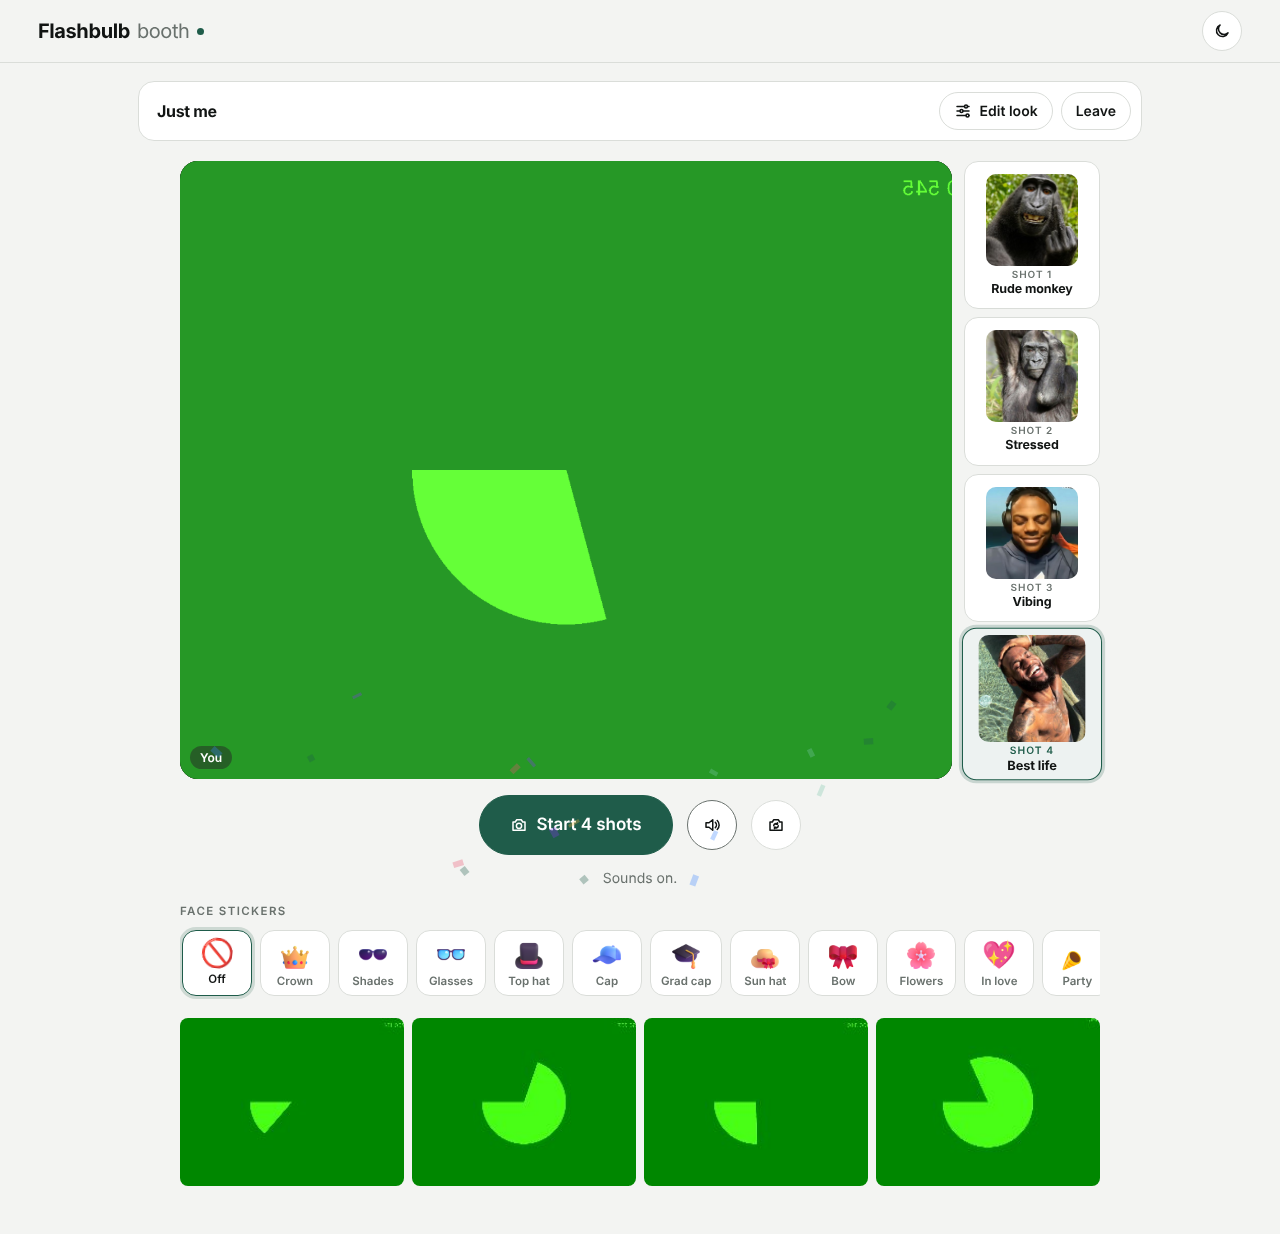
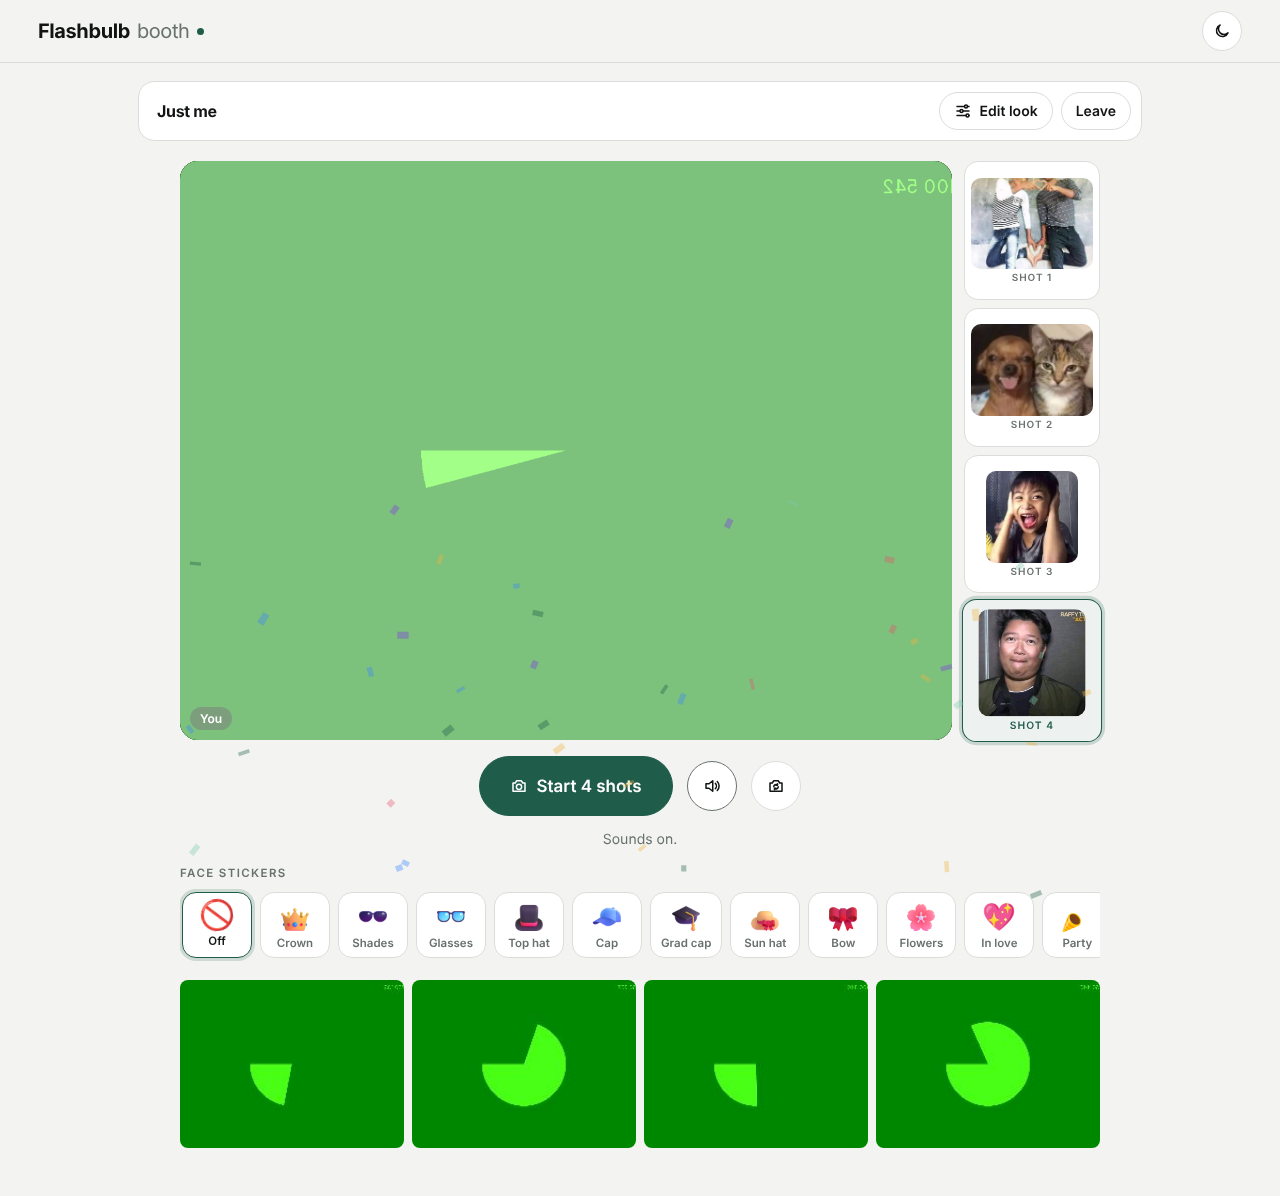
Show only the pose picture: no names or shot labels
The print shows just the pose beside each photo (no SHOT 1-4 label or
pose name), and the pose cards beside the camera drop the name. The
name is still in the card's tooltip and in the Poses tab.

diff --git a/tests/e2e.js b/tests/e2e.js
@@ -135,7 +135,9 @@ async function makeFaceVideo(browser) {
   check('Phone Together: each camera gets half the screen', bt >= 160, `${bt}px per camera`);
   await B.evaluate(() => window.scrollTo(0, 0)); await B.waitForTimeout(200); await B.screenshot({ path: OUT + '/phone-together.png' });
   check('Partner sees Partner on the left, You on the right', (await B.locator('#poseRail .rail-card').first().locator('.who2 i').allTextContents()).join('|') === 'Partner|You');
-  check('Both see the same duo poses', (await A.locator('#poseRail .rail-card b').allTextContents()).join() === (await B.locator('#poseRail .rail-card b').allTextContents()).join());
+  const railNames = (p) => p.evaluate(() => [...document.querySelectorAll('#poseRail .rail-card')].map((c) => c.title).join());
+  check('Both see the same duo poses', (await railNames(A)) === (await railNames(B)) && (await railNames(A)).length > 0);
+  check('Pose cards beside the camera show no name', (await A.locator('#poseRail .rail-card b').count()) === 0);
   await A.locator('#poseRail').screenshot({ path: OUT + '/duo-rail-host.png' });
   await A.click('#tabBtn-poses'); await A.locator('#poseFor .chip', { hasText: 'Solo' }).click(); await A.waitForTimeout(800);
   check('Switching to Solo poses syncs to the partner', (await B.locator('#poseRail .rail-card.duo').count()) === 0 && (await B.locator('#poseRail .rail-card').count()) === 4);
@@ -145,7 +147,7 @@ async function makeFaceVideo(browser) {
   // synced 4-shot session started by the partner
   await B.click('#shootBtn');
   await A.waitForTimeout(1000);
-  const posA = await A.locator('#poseRail [aria-pressed=true] b').textContent().catch(() => ''), posB = await B.locator('#poseRail [aria-pressed=true] b').textContent().catch(() => '-');
+  const posA = await A.locator('#poseRail [aria-pressed=true]').getAttribute('title').catch(() => ''), posB = await B.locator('#poseRail [aria-pressed=true]').getAttribute('title').catch(() => '-');
   check('Both see the same pose beside the camera', posA === posB && posA !== '', posA);
   check('No pose pop-up covers the camera', (await A.locator('.pose-pop').count()) === 0);
   await A.waitForTimeout(2300);
@@ -278,7 +280,7 @@ async function makeFaceVideo(browser) {
   check('Picking a pose in the list shows it beside the camera', (await J.locator('#poseRail .rail-card').nth(2).getAttribute('aria-pressed')) === 'true');
   await J.click('#tabBtn-look'); await closeLook(J);
   await J.locator('#poseRail .rail-card').nth(3).click();
-  check('Tapping a pose beside the camera picks it', (await J.locator('#poseRail .rail-card').nth(3).getAttribute('aria-pressed')) === 'true' && (await J.locator('#poseList .pose-item.sel b').textContent()) === (await J.locator('#poseRail .rail-card').nth(3).locator('b').textContent()));
+  check('Tapping a pose beside the camera picks it', (await J.locator('#poseRail .rail-card').nth(3).getAttribute('aria-pressed')) === 'true' && (await J.locator('#poseList .pose-item.sel b').textContent()) === (await J.locator('#poseRail .rail-card').nth(3).getAttribute('title')));
   await J.screenshot({ path: OUT + '/pose-rail.png' });
   await J.click('#shootBtn');
   await J.waitForTimeout(1000);
@@ -292,6 +294,12 @@ async function makeFaceVideo(browser) {
   check('The print drops out of the booth slot', (await view(J)) === 'result' && await J.evaluate(() => document.getElementById('tray').contains(document.getElementById('printBox')) && document.getElementById('printBox').classList.contains('dispense')));
   await J.waitForTimeout(1200); await J.screenshot({ path: OUT + '/result-dispense.png' });
   await J.waitForTimeout(2000);
+  const printTexts = await J.evaluate(() => { const t = [], orig = CanvasRenderingContext2D.prototype.fillText;
+    CanvasRenderingContext2D.prototype.fillText = function (x, ...a) { if (this.canvas.id === 'strip') t.push(String(x)); return orig.call(this, x, ...a); };
+    const el = document.getElementById('showDate'); el.checked = !el.checked; el.dispatchEvent(new Event('change')); el.checked = !el.checked; el.dispatchEvent(new Event('change'));
+    CanvasRenderingContext2D.prototype.fillText = orig;
+    const names = [...document.querySelectorAll('#poseRail .rail-card')].map((c) => c.title); return { t, names }; });
+  check('The print has no SHOT labels or pose names', printTexts.t.length > 0 && !printTexts.t.some((x) => /SHOT/.test(x.replace(/\u200a/g, '')) || printTexts.names.includes(x)), printTexts.t.slice(0, 6).join(' | '));
   check('Just me takes 4 photos', (await J.evaluate(() => document.querySelectorAll('#thumbs img').length)) === 4);
   const jdl = J.waitForEvent('download', { timeout: 5000 }).catch(() => null);
   await J.click('#saveBtn'); const jd = await jdl;

diff --git a/js/booth.js b/js/booth.js
@@ -110,13 +110,13 @@
   }
   function drawPose(r, i, frame, nameSize) {
     const key = packKey(), idx = picks[key][i]; if (idx == null) return;
-    const duo = poseFor === "duo", item = packList(key)[idx], name = poseMode === "meme" ? item.name : item[duo ? 2 : 1];
+    const duo = poseFor === "duo", item = packList(key)[idx];
     ctx.save();
     if (frame.theme) { ctx.fillStyle = frame.bg; ctx.globalAlpha = .9; ctx.beginPath(); ctx.roundRect ? ctx.roundRect(r.x, r.y, r.w, r.h, 16) : ctx.rect(r.x, r.y, r.w, r.h); ctx.fill(); }
     ctx.fillStyle = frame.ink; ctx.globalAlpha = .05;
     ctx.beginPath(); ctx.roundRect ? ctx.roundRect(r.x, r.y, r.w, r.h, 16) : ctx.rect(r.x, r.y, r.w, r.h); ctx.fill();
     ctx.globalAlpha = 1;
-    const pad = 14, textH = nameSize * 2.6, aw = r.w - pad * 2, ah = r.h - textH - pad;
+    const pad = 14, aw = r.w - pad * 2, ah = r.h - pad * 2; // just the pose: no shot number or name on the print
     const cx = r.x + r.w / 2, cy = r.y + pad + ah / 2;
     if (poseMode === "meme") {
       const im = poseArt(idx, frame, duo);
@@ -129,13 +129,6 @@
       ctx.font = `${Math.round(size)}px "Apple Color Emoji", "Segoe UI Emoji", "Noto Color Emoji", sans-serif`;
       ctx.textAlign = "center"; ctx.textBaseline = "middle"; ctx.fillText(text, cx, cy);
     }
-    ctx.fillStyle = frame.ink; ctx.textAlign = "center"; ctx.textBaseline = "alphabetic";
-    ctx.globalAlpha = .55; ctx.font = `600 ${Math.round(nameSize * .5)}px "Urbanist", sans-serif`;
-    ctx.fillText(`SHOT ${i + 1}`.split("").join(String.fromCharCode(8202)), r.x + r.w / 2, r.y + r.h - pad - nameSize * 1.25);
-    ctx.globalAlpha = 1; let size = nameSize;
-    const setF = () => { ctx.font = `700 ${size}px "Comfortaa", "Century Gothic", sans-serif`; };
-    setF(); while (ctx.measureText(name).width > r.w - 20 && size > 12) { size -= 1; setF(); }
-    ctx.fillText(name, r.x + r.w / 2, r.y + r.h - pad - 4);
     ctx.restore();
   }
 
@@ -272,7 +265,7 @@
       const { art, name, duo } = poseInfo(i, true);
       const b = document.createElement("button"); b.type = "button"; b.className = "rail-card" + (duo ? " duo" : ""); b.setAttribute("aria-pressed", String(i === selPose));
       const who = !duo ? "" : solo ? `<span class="who2"><i>Left</i><i>Right</i></span>` : `<span class="who2"><i${mySide === "A" ? ' class="me"' : ""}>${mySide === "A" ? "You" : "Partner"}</i><i${mySide === "B" ? ' class="me"' : ""}>${mySide === "B" ? "You" : "Partner"}</i></span>`;
-      b.innerHTML = `${art}${who}<small>Shot ${i + 1}</small><b></b>`; b.querySelector("b").textContent = name;
+      b.innerHTML = `${art}${who}<small>Shot ${i + 1}</small>`; b.title = name;
       b.setAttribute("aria-label", `Shot ${i + 1}: ${name}`);
       b.addEventListener("click", () => pickPose(i));
       rail.appendChild(b);
